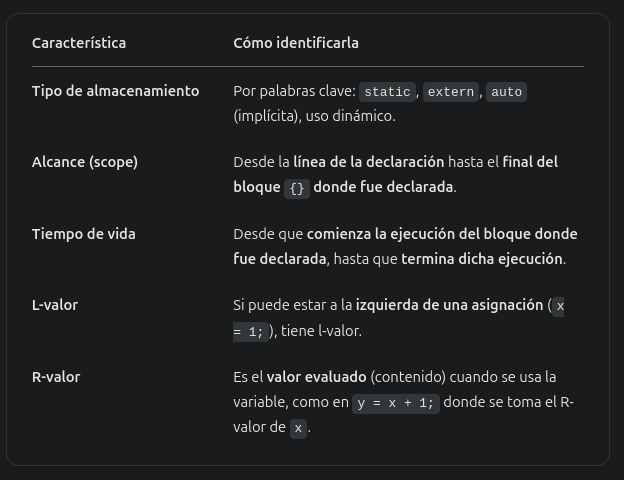
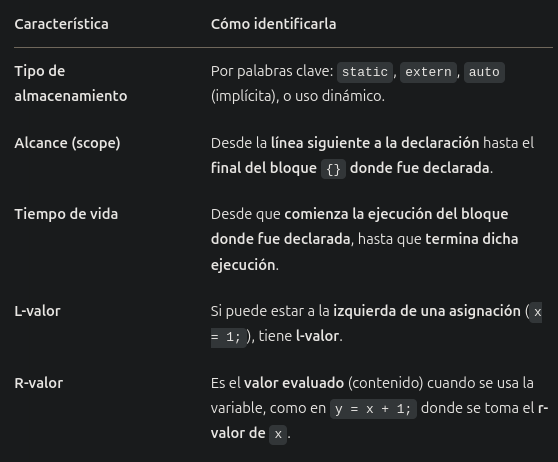
Corrección de notas y ejercicios tp4

diff --git a/tp4/tp4.md b/tp4/tp4.md
@@ -13,11 +13,12 @@ Definiciones:
 
 Es el período durante el cual la variable existe en memoria. Inicia en el momento en que se reserva memoria (alocación) y termina cuando se libera.
 Las variables pueden tener tiempo de vida automático (por bloque), estático (todo el programa) o dinámico (controlado por el programador).
+Se considera que empieza al comienzo del bloque (línea 1 o cuando comienza el módulo o programa), y termina al final del bloque. También puede interpretarse que comienza en la línea de la declaración. En todo caso aclarar.
 
 > Alcance
 
 Es el fragmento de código en el que se puede hacer referencia a una variable por su nombre. Existe el alcance estático (importa donde está escrita la variable) y alcance dinámico (importa quien llama a quien en tiempo de ejecución).
-En lenguajes como Pascal, donde la declaración pertenece a una sección `var`, el alcance comienza desde el inicio del bloque.
+Se considera que el alcance comienza una línea despues de la declaración y termina al final del bloque.
 
 > Tipo de almacenamiento
 
@@ -25,10 +26,9 @@ En lenguajes como Pascal, donde la declaración pertenece a una sección `var`, 
 
 > Tiempo de vida vs. Alcance
 
-- Alcance: cuándo puedo referirme por nombre a la variable en el código fuente. Visible desde la declaración hasta el final del bloque.
+- Alcance: cuándo puedo referirme por nombre a la variable en el código fuente. Visible desde una línea después de la declaración hasta el final del bloque. El alcance de una variable puede ser enmascarado por otra de mismo nombre en un subprograma (bloque más interno). Durante esas líneas no se considera su alcance.
 - Tiempo de vida: cuándo la variable realmente existe en memoria. Activo en memoria desde que comienza la ejecución del bloque donde está hasta que termina esa ejecución.
 - Tener en cuenta que un bucle for, estructura if y demás estructuras de control son considerados bloques, por lo que una variable declarada allí tendrá un tiempo de vida y alcance limitado a este.
-
 
 ![alt text](images/notas2.png)
 
@@ -36,22 +36,28 @@ En lenguajes como Pascal, donde la declaración pertenece a una sección `var`, 
 
 Tiempo de vida de un static es todo el programa (independientemente de si fue declarada dentro de un módulo o no). Su alcance es desde que es declarada hasta el final del bloque.
 El extern se usa para extender el alcance de una variable a otro archivo. Para hacer uso de esta cláusula, la variable debe estar previamente definida y no puede ser interna (a una función por ejemplo), debe ser global.
-Tener en cuenta que si aparece una variable con el mismo nombre en un bloque (ej: en una función), el alcance de la variable que está en el bloque más general es opacado lo que dura dicho bloque interno.
 
 > Variables extern
 
-En C, el modificador `extern` se utiliza para declarar una variable global que está definida en otro archivo fuente y otro lugar del mismo archivo. Es una variable global estática (almacenamiento estático, pero no es `static`, que limita visibilidad).
-Su alcance se limita al archivo y bloque donde se declara. Si se declara fuera de una función, su alcance es todo el archivo desde esa declaración (una línea adelante). Si se lo hace dentro de una función, su alcance es ese bloque.
-`extern` no crea una nueva variable, solo permite que se acceda a ella desde otro lado. Pero la alocación se da una única vez para la variable original. `extern` tampoco inicializa, pues toma el valor que la variable ya tenía.
+En C, el modificador `extern` se utiliza para declarar una variable global que está definida en otro archivo fuente u otro lugar del mismo archivo. Es una variable global estática (almacenamiento estático, pero no es `static`, que limita visibilidad).
+Su tiempo de vida, al ser global, comprenderá todo el programa menos las líneas donde se enmascare. Su alcance comprende el bloque donde es definido (alguno de los archivos) + el bloque donde es `extern`. Ambos tramos de alcance deben ser considerados.
+`extern` no crea una nueva variable, solo permite que se acceda a ella desde otro lado. Pero la alocación se da una única vez para la variable original. `extern` tampoco inicializa, pues toma el valor que la variable ya tenía. Entonces, la variable se analiza una única vez, no de forma separada.
 - Debe llevar el mismo nombre que la variable original.
-- Principalmente para extender a otros archivos (ya es global, es redudante usar `extend` en el mismo archivo).
+- Principalmente para extender a otros archivos (ya es global, es redudante usar `extern` en el mismo archivo).
 - El tiempo de vida siempre refiere a la variable original, porque extend no crea una nueva variable (no aloca), solo utiliza la ya alocada. 
 - Dado que no es una definición y no tiene tiempo de vida propio, lo único que puede cambiar con respecto a la original es su alcance
 - Si la variable global es `static`, no puede declararse como `extern`.
-- Su tiempo de vida es toda la ejecución del programa. Esto engloba todos los archivos donde sea utilizada (el de origen y los `extern`).
+- Su tiempo de vida es toda la ejecución del programa. Esto engloba todos los archivos que conforman el programa (el de origen y los `extern`).
 
 Aunque no use `extern`, si el programa consta de dos archivos y una variable tiene tiempo de vida de todo el programa, abarca ambos archivos.
-Valor que apunta puntero (p^) tiene tipo de l-valor determinado por lo que apuntan. Si apuntan a variable estática o automática, serán de este tipo. Serán dinámicos si apunta a dirección de memoria reservada en la Heap (`new(...)` en Pascal) --> **corroborar esto** 
+Valor que apunta puntero (p^) tiene tipo de l-valor dinámico siempre.
+
+> Notas generales
+
+- Se indica el r-valor al momento de la alocación. Indefinido o basura indica que no se inicializa por defecto. C inicializa por defecto variables globales y estáticas. Punteros se inicializan con null (o nil).
+- El tiempo de vida, alcance y tipo de l-valor de un puntero `p` se analiza igual que una variable convencional. El alcance de `p^` será igual al de `p`, pero su tiempo de vida irá desde el `new()` o asignación de algo a lo que apunta (inclusive esa línea) hasta el dispose (inclusive). Se marca de forma continua, no de a tramos según se le asigne otra cosa.
+- El alcance de una función se analiza igual que el de una variable. El tiempo de vida de la función es únicamente su bloque, cuando se ejecuta.
+- En Ada se pueden declarar arreglos con tamaño n. Si ese n no se conoce en compilación el tipo de l-valor es semidinámico. Si n es una constante, ya conocida en compilación, entonces es automático.
 ___
 
 
@@ -81,9 +87,9 @@ ___
 
 - Nombre: a
 - Tipo: Integer
-- Alcance: 5-16
+- Alcance: 4-16
 - Tiempo de vida: 1-16 (desde que comienza el procedimiento se aloca)
-- R-value: 45 (al finalizar el procedimiento) o indenifido (porque cambia)
+- R-value: indefinido
 - L-value: automática
 
 **b) Compare los atributos de la variable del punto a) con los atributos de la variable de la línea 4. Que dato contiene esta variable?**
@@ -93,8 +99,8 @@ ___
 - Nombre: p
 - Tipo: puntero
 - Alcance: p 5-16, p^ 5-16
-- Tiempo de vida: p 1-16, p^ 7-8 8-13 13-15
-- R-value: p nil (al principio y final), p^ indefinido (toma valor de lo que apunta)
+- Tiempo de vida: p 1-16, p^ 7-15
+- R-value: p nil, p^ indefinido
 - L-value: p automática, p^ dinámica
 
 ### Ejercicio 2:
@@ -243,13 +249,8 @@ K: constant float:= H*I
 
 **a.**
 
-Las constantes numéricas son aquellas que representan valores numéricos, ya sean enteros, reales u otros tipos numéricos definidos por el usuario. Se utilizan para asignar valor fijos a variables numéricas y para realizar cálculos matemáticos. La ligadura se produce en compilación, es decir, se conocen antes de que se ejecuten y los valores se incorporan al código objeto. Son aquellas que se declaran indicando un tipo explícito. Ej: `H: constant Float := 3.5;` indica al compilador que será una constante de tipo float, la restringe.
-Las constantes comunes, conocidas como constantes definidas, son aquellas que no necesariamente representan valores numéricos. Se pueden utilizar para asignar valores fijos a tipos no numéricos como strings, tipos enumerados y otros tipos definidos por el usuario. Se ligan en compilación. Su valor se asigna sin indicar su tipo. Ej: `I: constant := 2;`, el compilador infiere su tipo según donde se use. 
-Siempre que se conozca el valor, la ligadura se produce en compilación. Existen casos especiales donde el valor podría depender de la ejecución de módulos y que la ligadura no sea estrictamente en compilación.
-
-`nota:` en la cátedra dicen que las constantes comunes se ligan en ejecución y las constantes numéricas se ligan en compilación.
-
-Esta clasificación permite organizar y entender mejor el código en Ada, ya que refleja la naturaleza de los valores que representan y cómo se utilizan en el programa.
+Las constantes numéricas son aquellas que representan valores numéricos, ya sean enteros, reales u otros tipos numéricos definidos por el usuario. **La ligadura se produce en compilación**, es decir, se conocen antes de que se ejecuten y los valores se incorporan al código objeto. Son aquellas que se declaran sin indicar tipo. Ej: `I: constant := 2;`. Su tipo se infiere según su uso.
+Las constantes comunes, conocidas como constantes definidas, son aquellas que no necesariamente representan valores numéricos. **Se ligan en ejecución**. Su valor se asigna indicando un tipo. Ej: `H: constant Float := 3.5;`. Se restringe a un tipo. 
 
 **b.**
 
@@ -364,16 +365,16 @@ Por lo tanto:
 - i: 1-15 -> Se considera desde el comienzo del programa hasta el final
 - h: 1-15
 - mipuntero: 1-15
-- mipuntero^: 9-10 y 10-12 -> Se considera en tramos, pues se le cambia la dirección a la que apunta (y por lo tanto la alocación de lo que apunta)
+- mipuntero^: 9-12
 
 **b.**
 
 > Alcance
 
-- i: 6-15
+- i: 5-15
 - h: 6-15
-- mipuntero: 6-15
-- mipuntero^: 6-15
+- mipuntero: 4-15
+- mipuntero^: 4-15
 
 **c.**
 
@@ -408,7 +409,7 @@ Tiempo de vida mayor que el alcance
 5.  }
 ```
 
-El tiempo de vida de `x` va desde el comienzo del método hasta su fin (1-5). Su alcance desde su declaración hasta el fin del bloque (3-5).
+El tiempo de vida de `x` va desde el comienzo del método hasta su fin (1-5). Su alcance desde una línea posterior a su declaración hasta el fin del bloque (4-5).
 
 **b.**
 Tiempo de vida menor que el alcance
@@ -438,7 +439,7 @@ Tiempo de vida igual que el alcance
 6.  }
 ```
 
-En este caso la variable `x` es global, por lo que tanto su tiempo de vida como su alcance comprenden desde la línea 1 a la 6 (todo el programa).
+En este caso la variable `x` es global, por lo que tanto su tiempo de vida como su alcance comprenden desde la línea 1 a la 6 (todo el programa). Esto si se considera que el alcance se toma desde la línea de declaración. Sino no es posible que coincidan.
 
 ### Ejercicio 10: 
 **Si tengo la siguiente declaración al comienzo de un procedimiento:**
@@ -523,14 +524,14 @@ Existen 3 clases de tipos: predefinidos por el lenguaje, definidos por el usuari
     <tr><td>n (línea 4)</td><td>automática</td><td>basura</td><td>5-29</td><td>2-29</td></tr>
     <tr><td>p (línea 4)</td><td>automática</td><td>basura</td><td>5-11 / 23-29</td><td>2-29</td></tr>
     <tr><td>v1 (línea 5)</td><td>automática</td><td>basura</td><td>6-29</td><td>2-29</td></tr>
-    <tr><td>c1 (línea 6)</td><td>automática</td><td>10</td><td>7-10 / 23-29</td><td>2-29</td></tr>
+    <tr><td>c1 (línea 6)</td><td>automática</td><td>basura -> es constante común</td><td>7-10 / 23-29</td><td>2-29</td></tr>
     <tr><td>v2 (línea 9)</td><td>semidinámica</td><td>basura</td><td>10-22</td><td>7-22</td></tr>
     <tr><td>c1 (línea 10)</td><td>automática</td><td>basura</td><td>11-22</td><td>7-22</td></tr>
     <tr><td>c2 (línea 10)</td><td>automática</td><td>basura</td><td>11-22</td><td>7-22</td></tr>
     <tr><td>p (línea 11)</td><td>automática</td><td>nil</td><td>12-22</td><td>7-22</td></tr>
     <tr><td>p^</td><td>dinamica</td><td>basura</td><td>12-22</td><td>15-18</td></tr>
     <tr><td>q (línea 11)</td><td>automática</td><td>nil</td><td>12-22</td><td>7-22</td></tr>
-    <tr><td>q^</td><td>dinámica</td><td>basura</td><td>12-22</td><td>16-18 (por "free p")</td></tr>
+    <tr><td>q^</td><td>dinámica</td><td>basura</td><td>12-22</td><td>16-18 (por "free p") ?</td></tr>
   </tbody>
 </table>
 
@@ -606,7 +607,7 @@ ARCHIVO2.C
   <tbody>
     <tr><td>v1 (línea 1)</td><td>estática</td><td>0</td><td>2-4 / 9-12 / 21-23</td><td>1-28</td></tr>
     <tr><td>a (línea 2)</td><td>estática</td><td>null</td><td>3-16</td><td>1-28</td></tr>
-    <tr><td>&a</td><td>dinámica o automático (porque apunta a v1 (línea 12))</td><td>basura</td><td>3-16</td><td>15-16</td></tr>
+    <tr><td>&a</td><td>dinámica</td><td>basura</td><td>3-16</td><td>15-16</td></tr>
     <tr><td>v1 (línea 4)</td><td>automática</td><td>basura</td><td>5-8</td><td>3-8</td></tr>
     <tr><td>y (línea 4)</td><td>automática</td><td>basura</td><td>5-8</td><td>3-8</td></tr>
     <tr><td>var3 (línea 10)</td><td>estática</td><td>0</td><td>11-16</td><td>1-28</td></tr>
@@ -617,7 +618,7 @@ ARCHIVO2.C
     <tr><td>aux (línea 25)</td><td>automática</td><td>basura</td><td>26-28</td><td>24-28</td></tr>
     <tr><td>fun2 (línea 3)</td><td>---</td><td>---</td><td>4-16</td><td>3-8</td></tr>
     <tr><td>main (línea 9)</td><td>---</td><td>---</td><td>10-16</td><td>9-16</td></tr>
-    <tr><td>fun2 (línea 19)</td><td>---</td><td>---</td><td>20-28</td><td>17-28</td></tr>
+    <tr><td>fun2 (línea 19)</td><td>---</td><td>---</td><td>20-28</td><td>19-23</td></tr>
     <tr><td>fun3 (línea 24)</td><td>---</td><td>---</td><td>25-28</td><td>24-28</td></tr>
   </tbody>
 </table>
@@ -626,7 +627,8 @@ ARCHIVO2.C
 - C inicializa en 0 únicamente variables que se guardan en el segmento de datos (globales y `static`). Variables automáticas contienen basura, no son inicializadas por defecto.
 - Prestar atención a alcance de funciones, una línea posterior a su declaración hasta que termina el bloque donde se define (el bloque en el que está, no su propia `}`).
 - `static` en funciones refiere a que limita su visibilidad, no que su tiempo de vida abarca todo el programa, como en las variables
-- En C estándar no pueden declararse funciones dentro de otras, pero en lenguajes que si, esto limita el alcance de funct2 dentro del bloque de funct1 (suponiendo que funct2 se declaró dentro de funct1), pero no limita su tiempo de vida. Su tiempo de vida sigue siendo todo el programa, porque una función se comporta distinto de una variable. No significa que tenga almacenamiento automático (de hecho esto no aplica a funciones), simplemente implica que no se puede llamar desde afuera (por eso su alcance reducido).
+- En C estándar no pueden declararse funciones dentro de otras, pero en lenguajes que si, esto limita el alcance de funct2 dentro del bloque de funct1 (suponiendo que funct2 se declaró dentro de funct1), pero no limita su tiempo de vida (tomando en cuenta que sea `static`). Su tiempo de vida sigue siendo todo el programa, porque una función se comporta distinto de una variable. No significa que tenga almacenamiento automático (de hecho esto no aplica a funciones), simplemente implica que no se puede llamar desde afuera (por eso su alcance reducido). -> **Esto podría estar mal**
+- Aunque hayan dos archivos que conforman el programa, el alcance léxico de una función se limita a su propio archivo -> **Chequear esto**
 
 **Aclaración:**
 **Ident.**= Identificador
